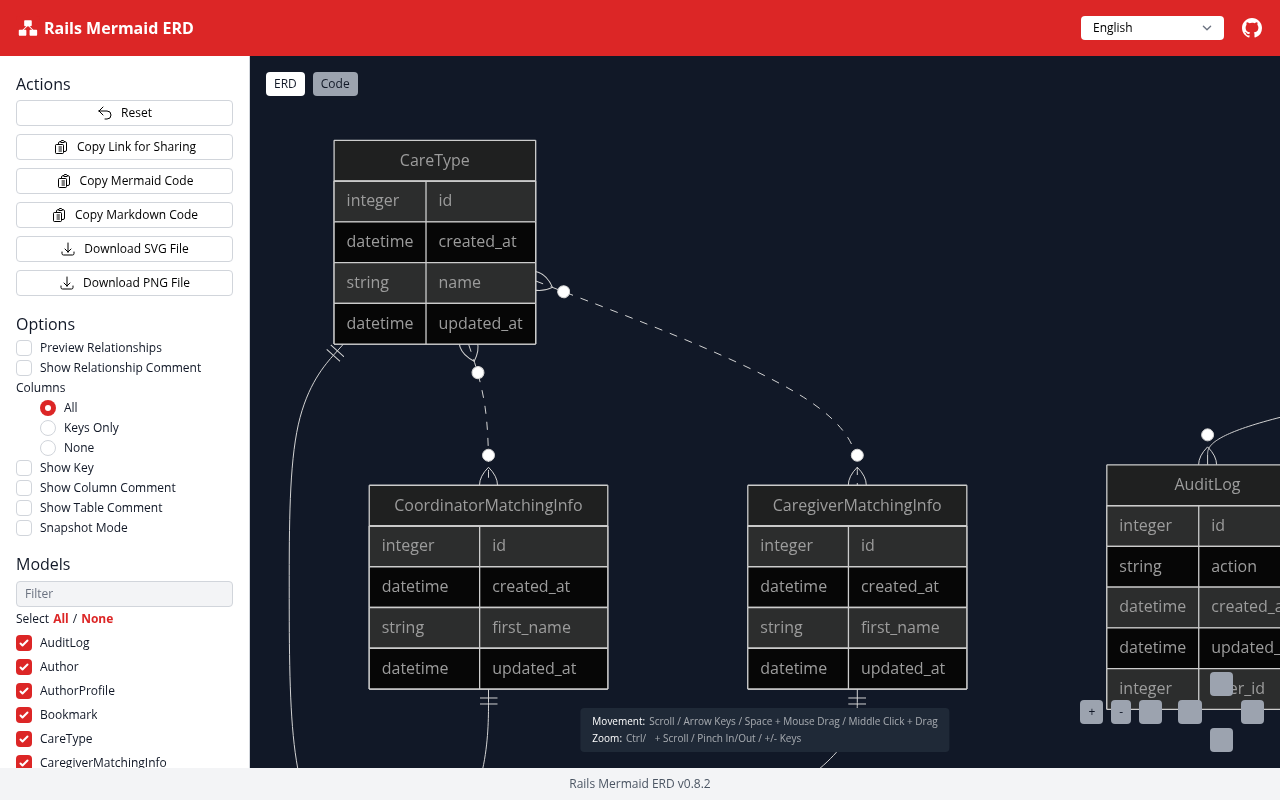
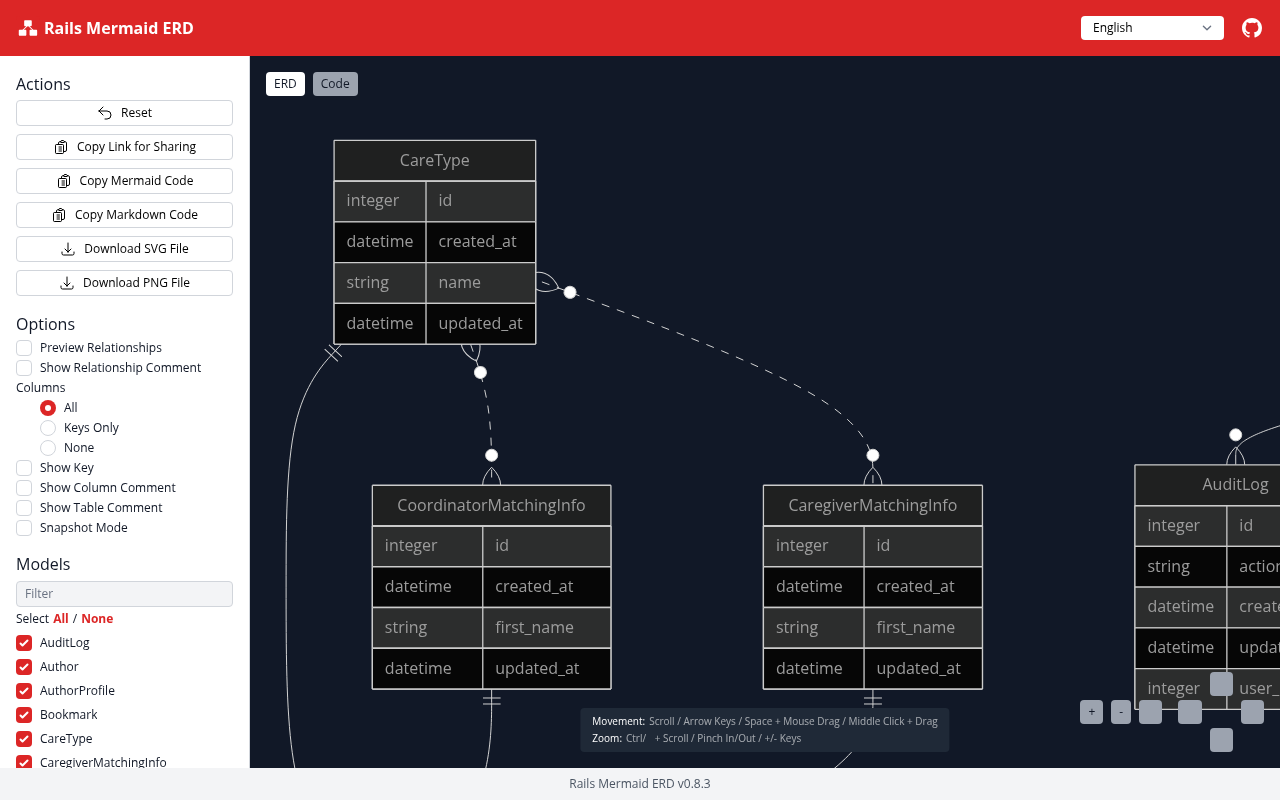
v0.8.3

diff --git a/lib/rails-mermaid_erd/version.rb b/lib/rails-mermaid_erd/version.rb
@@ -1,3 +1,3 @@
 module RailsMermaidErd
-  VERSION = "0.8.2"
+  VERSION = "0.8.3"
 end
